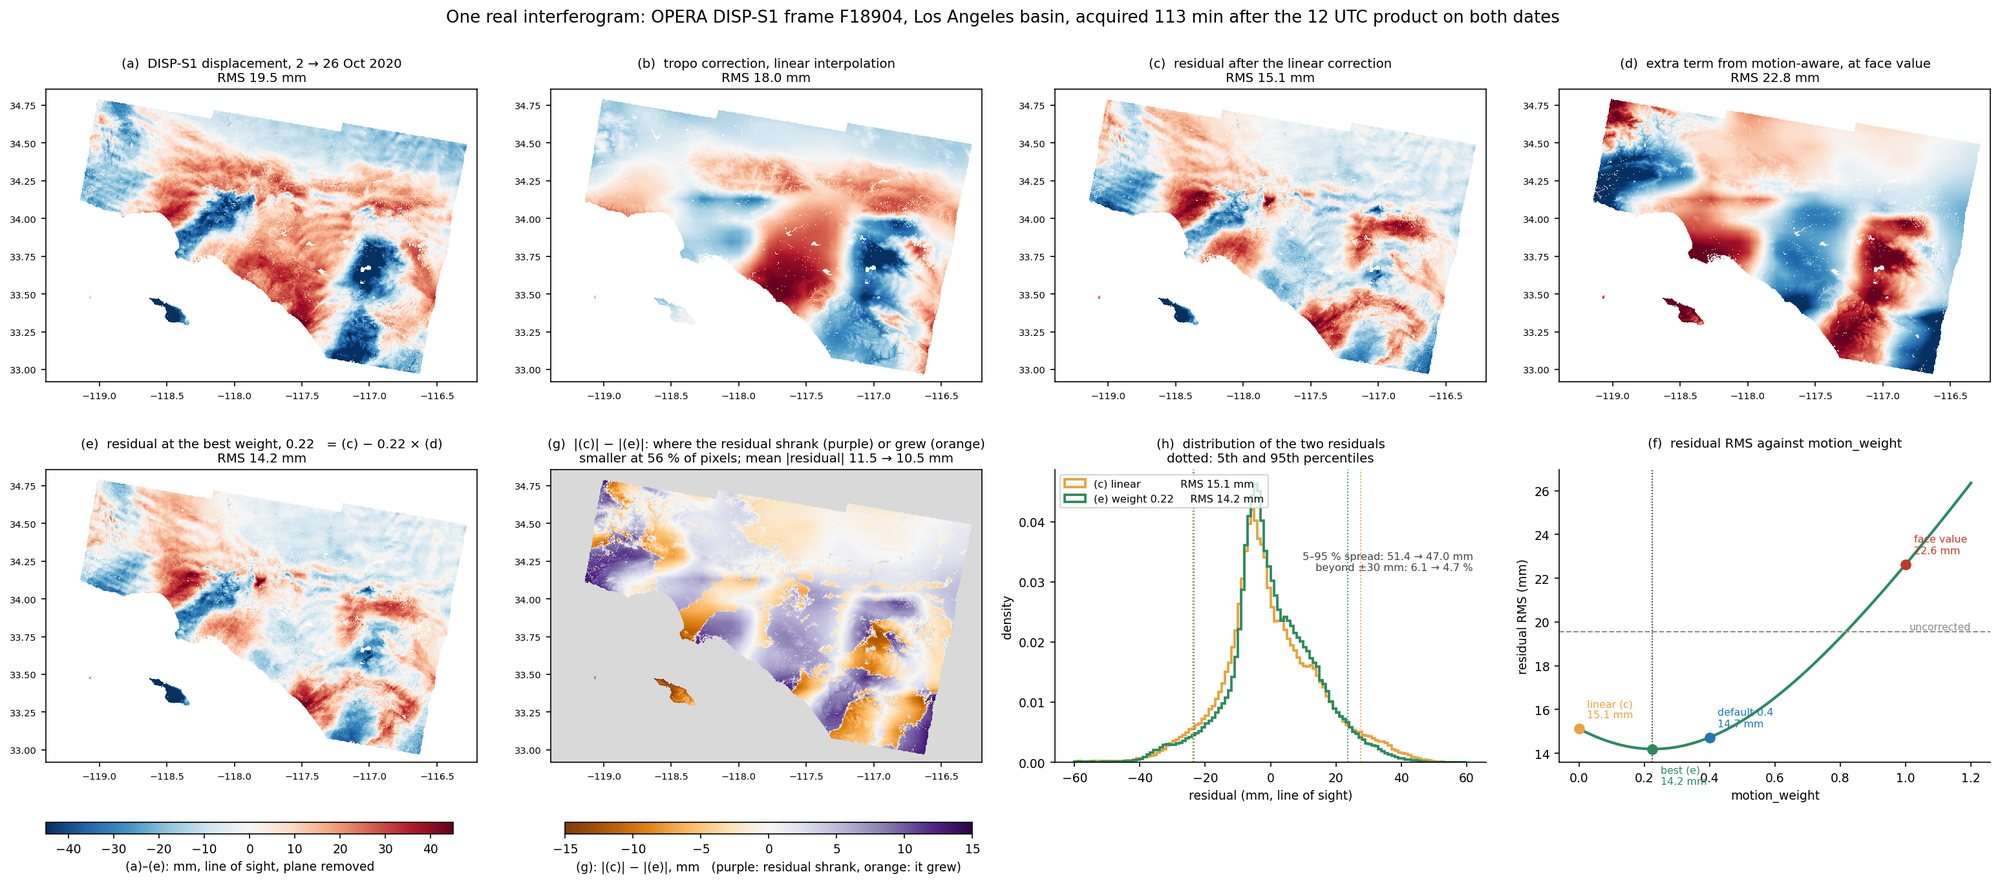
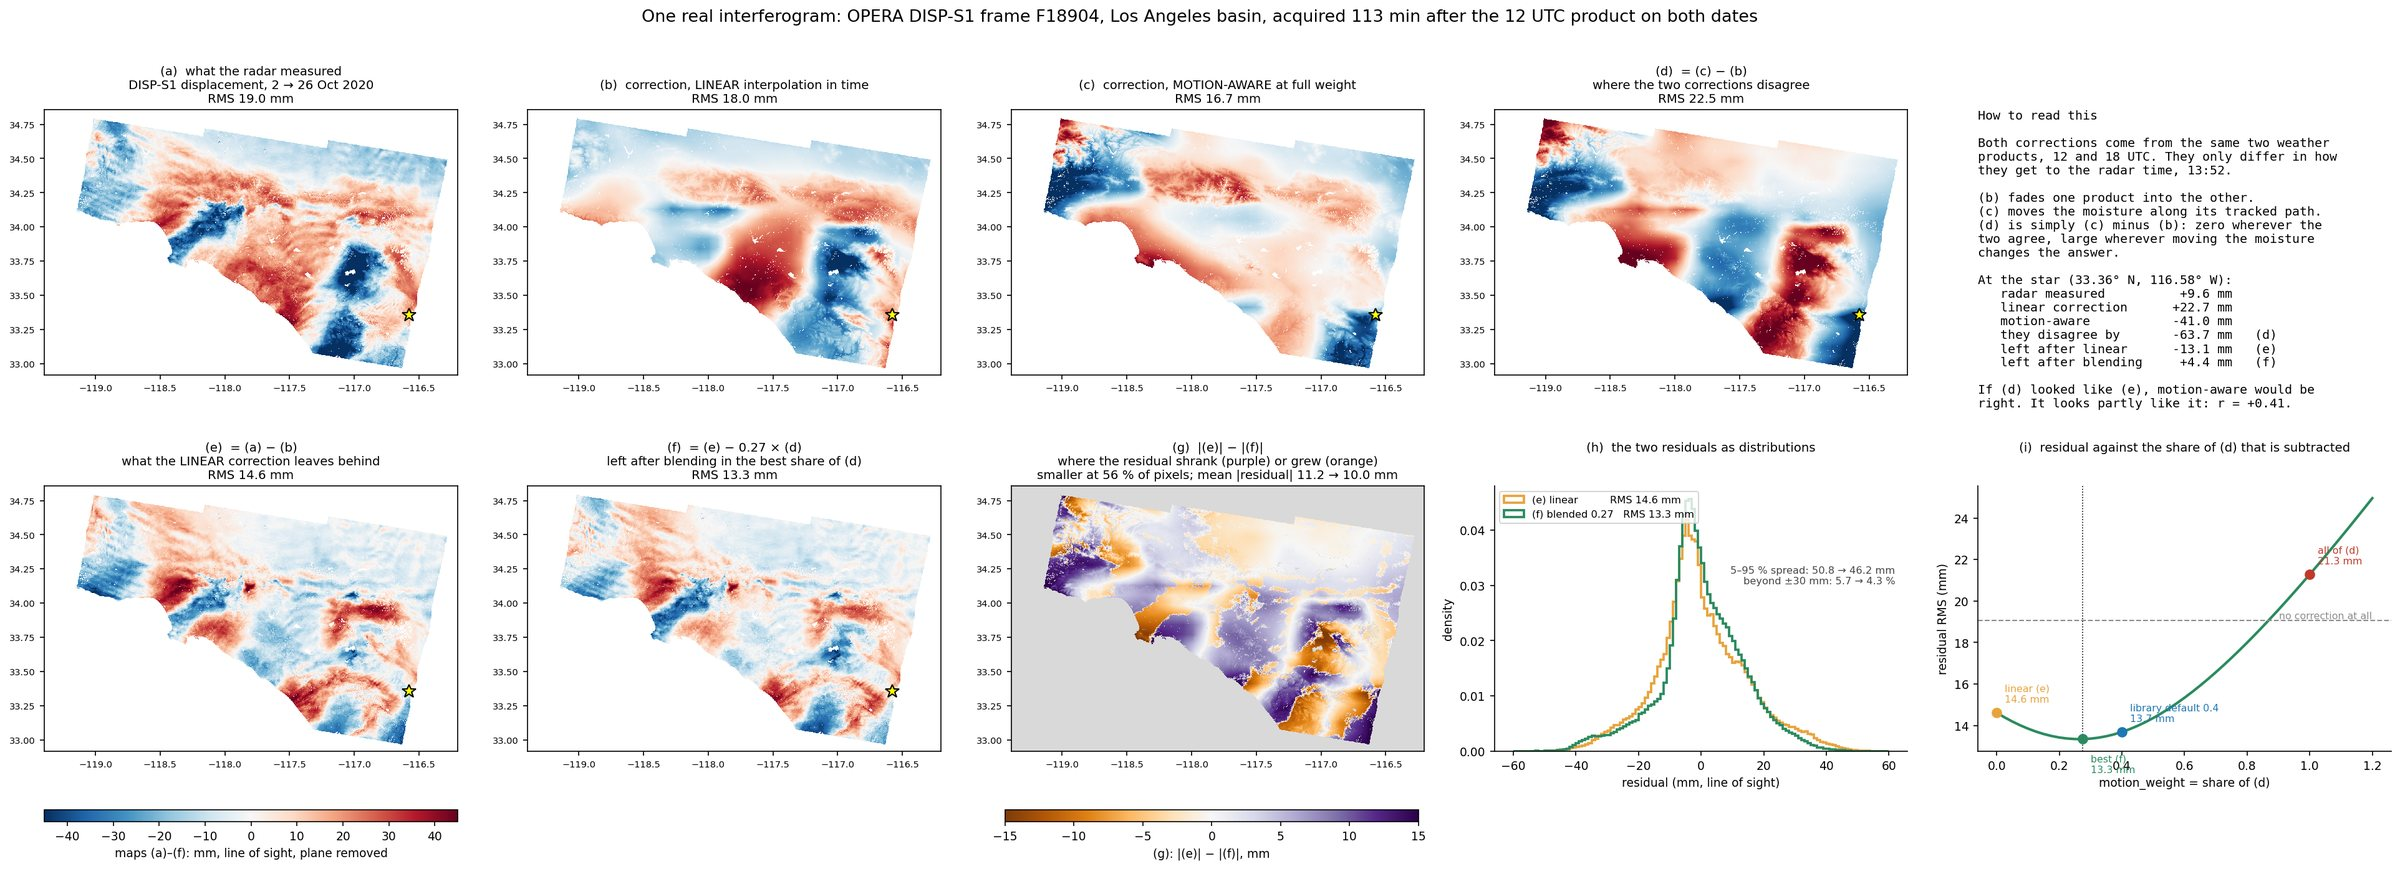
docs: interferogram test scored on the mainland component only; show both corrections
Santa Catalina island is a separate unwrapping component. Residual 14.6 mm with
linear, 13.7 mm at the default weight 0.4, 21.3 mm at face value. The figure now
shows the motion-aware correction next to the linear one, so their difference can
be read directly.

diff --git a/docs/tropo-motion-interpolation.md b/docs/tropo-motion-interpolation.md
@@ -174,22 +174,26 @@ product of frame F18904 (Los Angeles basin), 2 to 26 October 2020, both acquired
 
 ![interferogram test](img/tropo-motion/insar_test.jpg)
 
-*(c) is what the linear correction leaves; (d) is the only thing the motion-aware method adds;
-(e) = (c) − 0.22 × (d). Panel (g) maps where that made the residual smaller (purple) or larger
-(orange): smaller at 56 % of pixels, mean absolute residual 11.5 → 10.5 mm. Panel (h) compares
-the two distributions.*
+*(b) and (c) are the two corrections, built from the same two products; (d) = (c) − (b) is
+where they disagree. (e) is what the linear correction leaves behind, and (f) = (e) − 0.27 × (d)
+is what is left after blending in the best share of (d). Panel (g) maps where that made the
+residual smaller (purple) or larger (orange): smaller at 56 % of pixels, mean absolute residual
+11.2 → 10.0 mm. The star marks the location of the worked example in the text panel.*
 
 | | residual RMS, mm line of sight, plane removed |
 |---|---:|
-| uncorrected | 19.5 |
-| linear interpolation | 15.1 |
-| motion-aware, weight 0.4 (default) | **14.7** |
-| motion-aware, weight 0.5 | 15.5 |
-| motion-aware, weight 1.0 | 22.6 |
-| best weight, 0.22 | 14.2 |
+| uncorrected | 19.1 |
+| linear interpolation | 14.6 |
+| motion-aware, weight 0.4 (default) | **13.7** |
+| motion-aware, weight 0.5 | 14.4 |
+| motion-aware, weight 1.0 | 21.3 |
+| best weight, 0.27 | 13.3 |
+
+Scored on the mainland only: Santa Catalina island is a separate unwrapping component
+whose offset to the mainland is arbitrary.
 
 The extra term that motion-aware interpolation adds correlates with what the linear
-correction leaves behind (r = +0.34, slope +0.23; slope +0.41 at scales below 15 km), so
+correction leaves behind (r = +0.41, slope +0.26; slope +0.42 at scales below 15 km), so
 the skill is real, and at face value it makes the interferogram worse than no correction
 at all. One interferogram is an anecdote, but it agrees with GNSS on both points.
 
